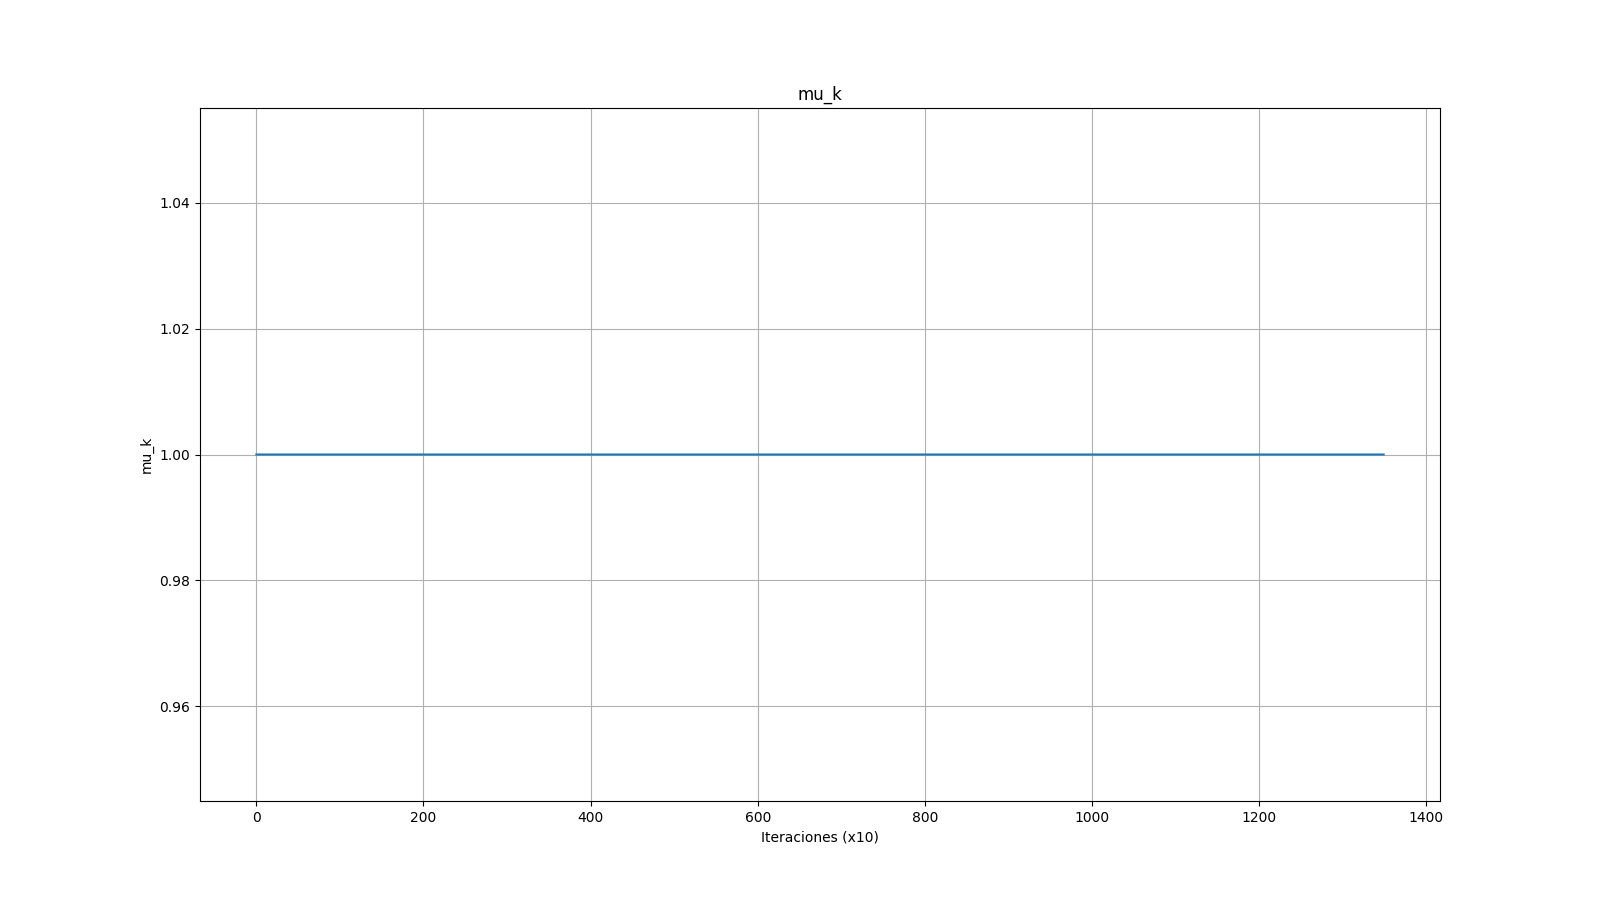
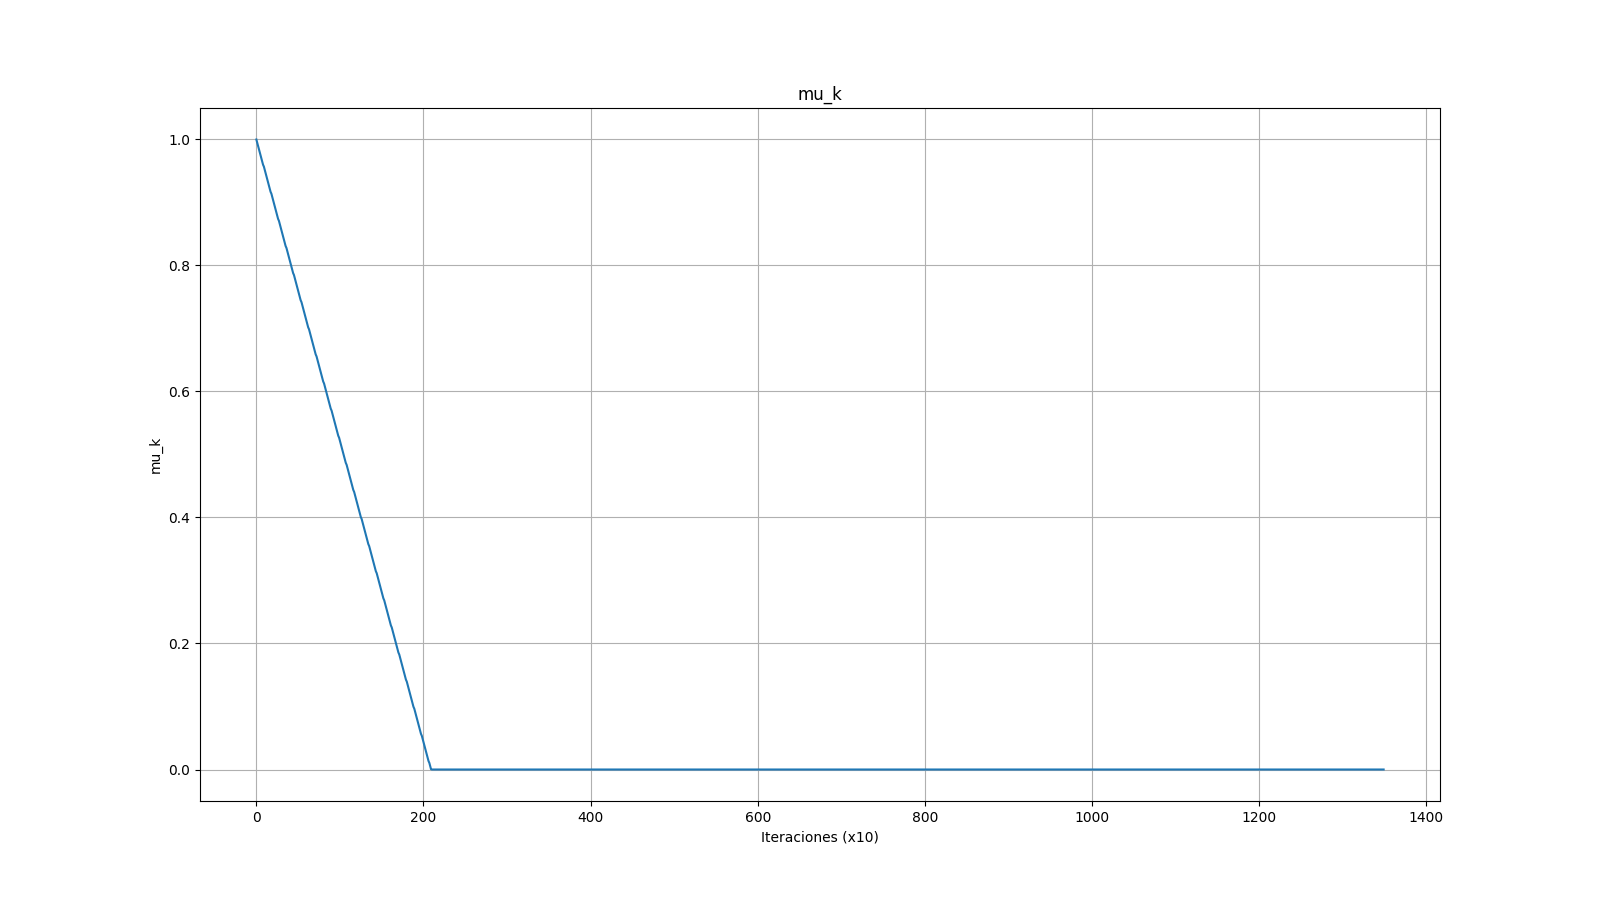
Push después de la reunión

diff --git a/RUN/train.py b/RUN/train.py
@@ -30,7 +30,7 @@ from utils import power_constraint
 from utils import get_rates
 from utils import objective_function
 from utils import mu_update
-from utils import channel_constraint
+# from utils import channel_constraint
 from utils import nuevo_get_rates
 
 from utils import graphs_to_tensor_synthetic
@@ -101,28 +101,24 @@ def run(building_id=800, b5g=False, num_channels=5, num_layers=5, K=3, batch_siz
             # log_p_sum = torch.sum(log_p, dim=1)
             # phi = normalized_phi * p0
 
-            normalized_psi = (torch.tanh(psi)*(0.99 - 0.01) + 1)/2
-            normalized_psi_values.append(normalized_psi[0,:,:].squeeze(-1).detach().numpy())
+
+            probs = torch.softmax(psi.squeeze(-1), dim=1)  # [batch_size, num_channels]
+            normalized_psi_values.append(probs[0, :].detach().numpy())
 
             # --- NUEVO: solo un canal activo por transmisor ---
-            probs = normalized_psi.squeeze(-1)  # [batch_size, num_channels]
-            probs = probs / probs.sum(dim=1, keepdim=True)  # Normalizar para que sumen 1
             selected_idx = torch.multinomial(probs, num_samples=1)  # [batch_size, 1]
             normalized_phi = torch.zeros_like(probs)
             normalized_phi.scatter_(1, selected_idx, 1)
             normalized_phi = normalized_phi.unsqueeze(-1)  # [batch_size, num_channels, 1]
             # -----------------------------------------------
 
-            log_p = normalized_phi * torch.log(normalized_psi) + (1 - normalized_phi) * torch.log(1 - normalized_psi)
+            log_p = normalized_phi.squeeze(-1) * torch.log(probs + 1e-10)  # Evitar log(0)
             log_p_sum = torch.sum(log_p, dim=1)
             phi = normalized_phi * p0
 
 
             power_constr = power_constraint(phi, pmax)
             power_constr_mean = torch.mean(power_constr, dim = 0)
-
-            channel_constr = channel_constraint(phi, p0)
-            channel_constr_mean = torch.mean(channel_constr, dim = 0)
 
             # rates = get_rates(phi, channel_matrix_batch, sigma)
             rates = nuevo_get_rates(phi, channel_matrix_batch, sigma, p0=p0)
@@ -131,9 +127,9 @@ def run(building_id=800, b5g=False, num_channels=5, num_layers=5, K=3, batch_siz
 
             sum_rate_mean = torch.mean(sum_rate, dim = 0)
 
-            mu_k = mu_update(mu_k, channel_constr, eps)
+            mu_k = mu_update(mu_k, power_constr, eps)
 
-            cost = sum_rate + (channel_constr * mu_k)
+            cost = sum_rate + (power_constr * mu_k)
 
             loss = cost * log_p_sum
             loss_mean = torch.mean(loss, dim = 0)
@@ -148,7 +144,6 @@ def run(building_id=800, b5g=False, num_channels=5, num_layers=5, K=3, batch_siz
                 objective_function_values.append(-sum_rate_mean.detach().numpy())
                 loss_values.append(loss_mean.squeeze(-1).detach().numpy())
                 mu_k_values.append(mu_k.squeeze(-1).detach().numpy())
-                channel_constraint_values.append(channel_constr_mean.detach().numpy())
 
     for name, param in gnn_model.named_parameters():
         if param.requires_grad:
@@ -161,7 +156,7 @@ def run(building_id=800, b5g=False, num_channels=5, num_layers=5, K=3, batch_siz
     path = plot_results(
             building_id=building_id,
             b5g=b5g,
-            normalized_psi=normalized_psi,
+            normalized_psi=probs,
             normalized_psi_values=normalized_psi_values,
             num_layers=num_layers,
             K=K,

diff --git a/RUN/utils.py b/RUN/utils.py
@@ -179,10 +179,10 @@ def power_constraint(phi, pmax):
     return (sum_phi - pmax)
 
 # LO QUE AGREGAMOS NOSOTROS
-def channel_constraint(phi, p0):
-    #phi recibe phi*p0
-    sum_phi = torch.sum(phi, dim=1)
-    return (sum_phi - p0)
+# def channel_constraint(phi, p0):
+#     #phi recibe phi*p0
+#     sum_phi = torch.sum(phi, dim=1)
+#     return (sum_phi - p0)
 
 def mu_update(mu_k, power_constr, eps):
     mu_k = mu_k.detach()

diff --git a/RUN/plot_results_torch.py b/RUN/plot_results_torch.py
@@ -141,7 +141,7 @@ def plot_results(building_id, b5g, normalized_psi, normalized_psi_values=[], num
         plt.close()
 
     if channel_constraint_values is not None:
-        plt.figure()
+        plt.figure(figsize=(16,9))
         plt.plot(channel_constraint_values)
         plt.title('Channel Constraint')
         plt.xlabel('Iteración')
